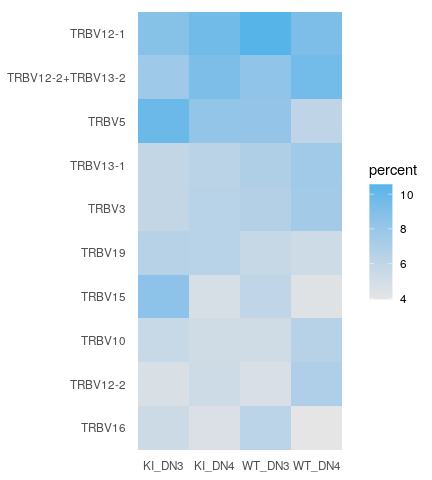
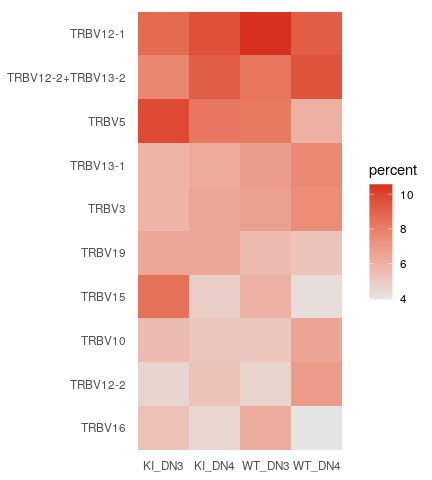
updated README

diff --git a/README.md b/README.md
@@ -55,12 +55,6 @@ paths   <- file.path("data", str_c(samples, "_TCR"), "outs")
 
 names(paths) <- str_c(samples, "_GE")
 
-paths
-#>              KI_DN3_GE              KI_DN4_GE              WT_DN3_GE 
-#> "data/KI_DN3_TCR/outs" "data/KI_DN4_TCR/outs" "data/WT_DN3_TCR/outs" 
-#>              WT_DN4_GE 
-#> "data/WT_DN4_TCR/outs"
-
 # Import VDJ data
 so_tcr <- import_vdj(
   sobj_in         = so_tcr,  # Seurat object
@@ -240,6 +234,11 @@ Possible methods for calculating diversity include:
     #>  [9] "mcintosh_e"       "menhinick"        "pielou_e"         "richness"        
     #> [13] "shannon"          "simpson"          "simpson_e"        "strong"
 
+<br>
+
+In this example we are calculating the Shannon index of diversity for
+each sample in the orig.ident meta.data column.
+
 ``` r
 so_tcr <- calc_diversity(
   sobj_in       = so_tcr,         # Seurat object
@@ -248,6 +247,8 @@ so_tcr <- calc_diversity(
   method        = abdiv::shannon  # abdiv method to use
 )
 ```
+
+<br>
 
 For each ‘calculation’ function provided by `djvdj`, there is a matching
 `plot` function that will generate a summary plot. For `plot_diversity`
@@ -304,6 +305,8 @@ Possible methods for calculating repertoire similarity include:
     #> [37] "sorenson_nestedness"                "sorenson_turnover"                 
     #> [39] "weighted_kulczynski_second"         "yule_dissimilarity"
 
+<br>
+
 By default `calc_similarity` will add a new meta.data column for each
 comparison. In this example we are calculating the jaccard dissimilarity
 index for all combinations of cell labels present in the `orig.ident`
@@ -341,6 +344,8 @@ so_tcr@meta.data %>%
 #> #   jcrd_KI_DN4 <dbl>, jcrd_WT_DN3 <dbl>, jcrd_WT_DN4 <dbl>
 ```
 
+<br>
+
 Alternatively, `calc_similarity` can output a matrix
 
 ``` r
@@ -356,6 +361,8 @@ calc_similarity(
 #> WT_DN3 1.0000000 0.9986326     NA
 #> WT_DN4 0.9969174 0.9980024      1
 ```
+
+<br>
 
 A heatmap summarizing the results can be generated using the
 `plot_similarity` function. Here we are creating two heatmaps, one to
@@ -430,6 +437,8 @@ calc_usage(
 #> # … with 82 more rows
 ```
 
+<br>
+
 The companion function `plot_usage` can be used to create a heatmap
 summarizing these results. Using the `yaxis` argument, the percent or
 absolute count (frequency) can be used for plotting. The genes plotting
@@ -441,20 +450,22 @@ highest average usage.
 
 ``` r
 plot_usage(
-  sobj_in     = so_tcr,        # Seurat object
-  gene_cols   = "v_gene",      # meta.data column(s) containing genes
-  cluster_col = "orig.ident",  # meta.data column containing cell labels
-  chain       = "TRB",         # Chain to use for filtering genes
-  chain_col   = "chains",      # meta.data column containing chains identified for each cell
+  sobj_in     = so_tcr,                    # Seurat object
+  gene_cols   = "v_gene",                  # meta.data column(s) containing genes
+  cluster_col = "orig.ident",              # meta.data column containing cell labels
+  chain       = "TRB",                     # Chain to use for filtering genes
+  chain_col   = "chains",                  # meta.data column containing chains
   
-  plot_colors = NULL,          # Colors to use for heatmap
-  plot_genes  = NULL,          # A list of genes to plot
-  n_genes     = 10,            # The number of top genes to plot
-  yaxis       = "percent"      # Units to plot
+  plot_colors = c("grey90", ito_cols[5]),  # Colors to use for heatmap
+  plot_genes  = NULL,                      # A list of genes to plot
+  n_genes     = 10,                        # The number of top genes to plot
+  yaxis       = "percent"                  # Units to plot
 )
 ```
 
 <img src="man/figures/README-usage_plots_1-1.png" width="100%" />
+
+<br>
 
 By passing multiple columns to `gene_cols`, the frequency that different
 genes are used together can also be summarized.
@@ -465,7 +476,7 @@ calc_usage(
   gene_cols   = c("v_gene", "j_gene"),  # meta.data column(s) containing genes
   cluster_col = "orig.ident",           # meta.data column containing cell labels
   chain       = "TRB",                  # Chain to use for filtering genes
-  chain_col   = "chains"                # meta.data column containing chains identified for each cell
+  chain_col   = "chains"                # meta.data column containing chains
 )
 #> # A tibble: 1,016 x 6
 #>    v_gene j_gene  orig.ident n_cells  freq   pct
@@ -483,16 +494,19 @@ calc_usage(
 #> # … with 1,006 more rows
 ```
 
+<br>
+
 When multiple gene columns are passed to `plot_usage`, a list of plots
 will be returned, one for each cell label in the `cluster_col` column.
 
 ``` r
 gg <- plot_usage(
-  sobj_in     = so_tcr,                 # Seurat object
-  gene_cols   = c("v_gene", "j_gene"),  # meta.data column(s) containing genes
-  cluster_col = "orig.ident",           # meta.data column containing cell labels
-  chain       = "TRB",                  # Chain to use for filtering genes
-  chain_col   = "chains"                # meta.data column containing chains identified for each cell
+  sobj_in     = so_tcr,                   # Seurat object
+  gene_cols   = c("v_gene", "j_gene"),    # meta.data column(s) containing genes
+  cluster_col = "orig.ident",             # meta.data column containing cell labels
+  chain       = "TRB",                    # Chain to use for filtering genes
+  chain_col   = "chains",                 # meta.data column containing chains identified
+  plot_colors = c("grey90", ito_cols[8])  # Colors to use for heatmap
 ) %>%
   imap(~ .x + ggtitle(.y))
 
